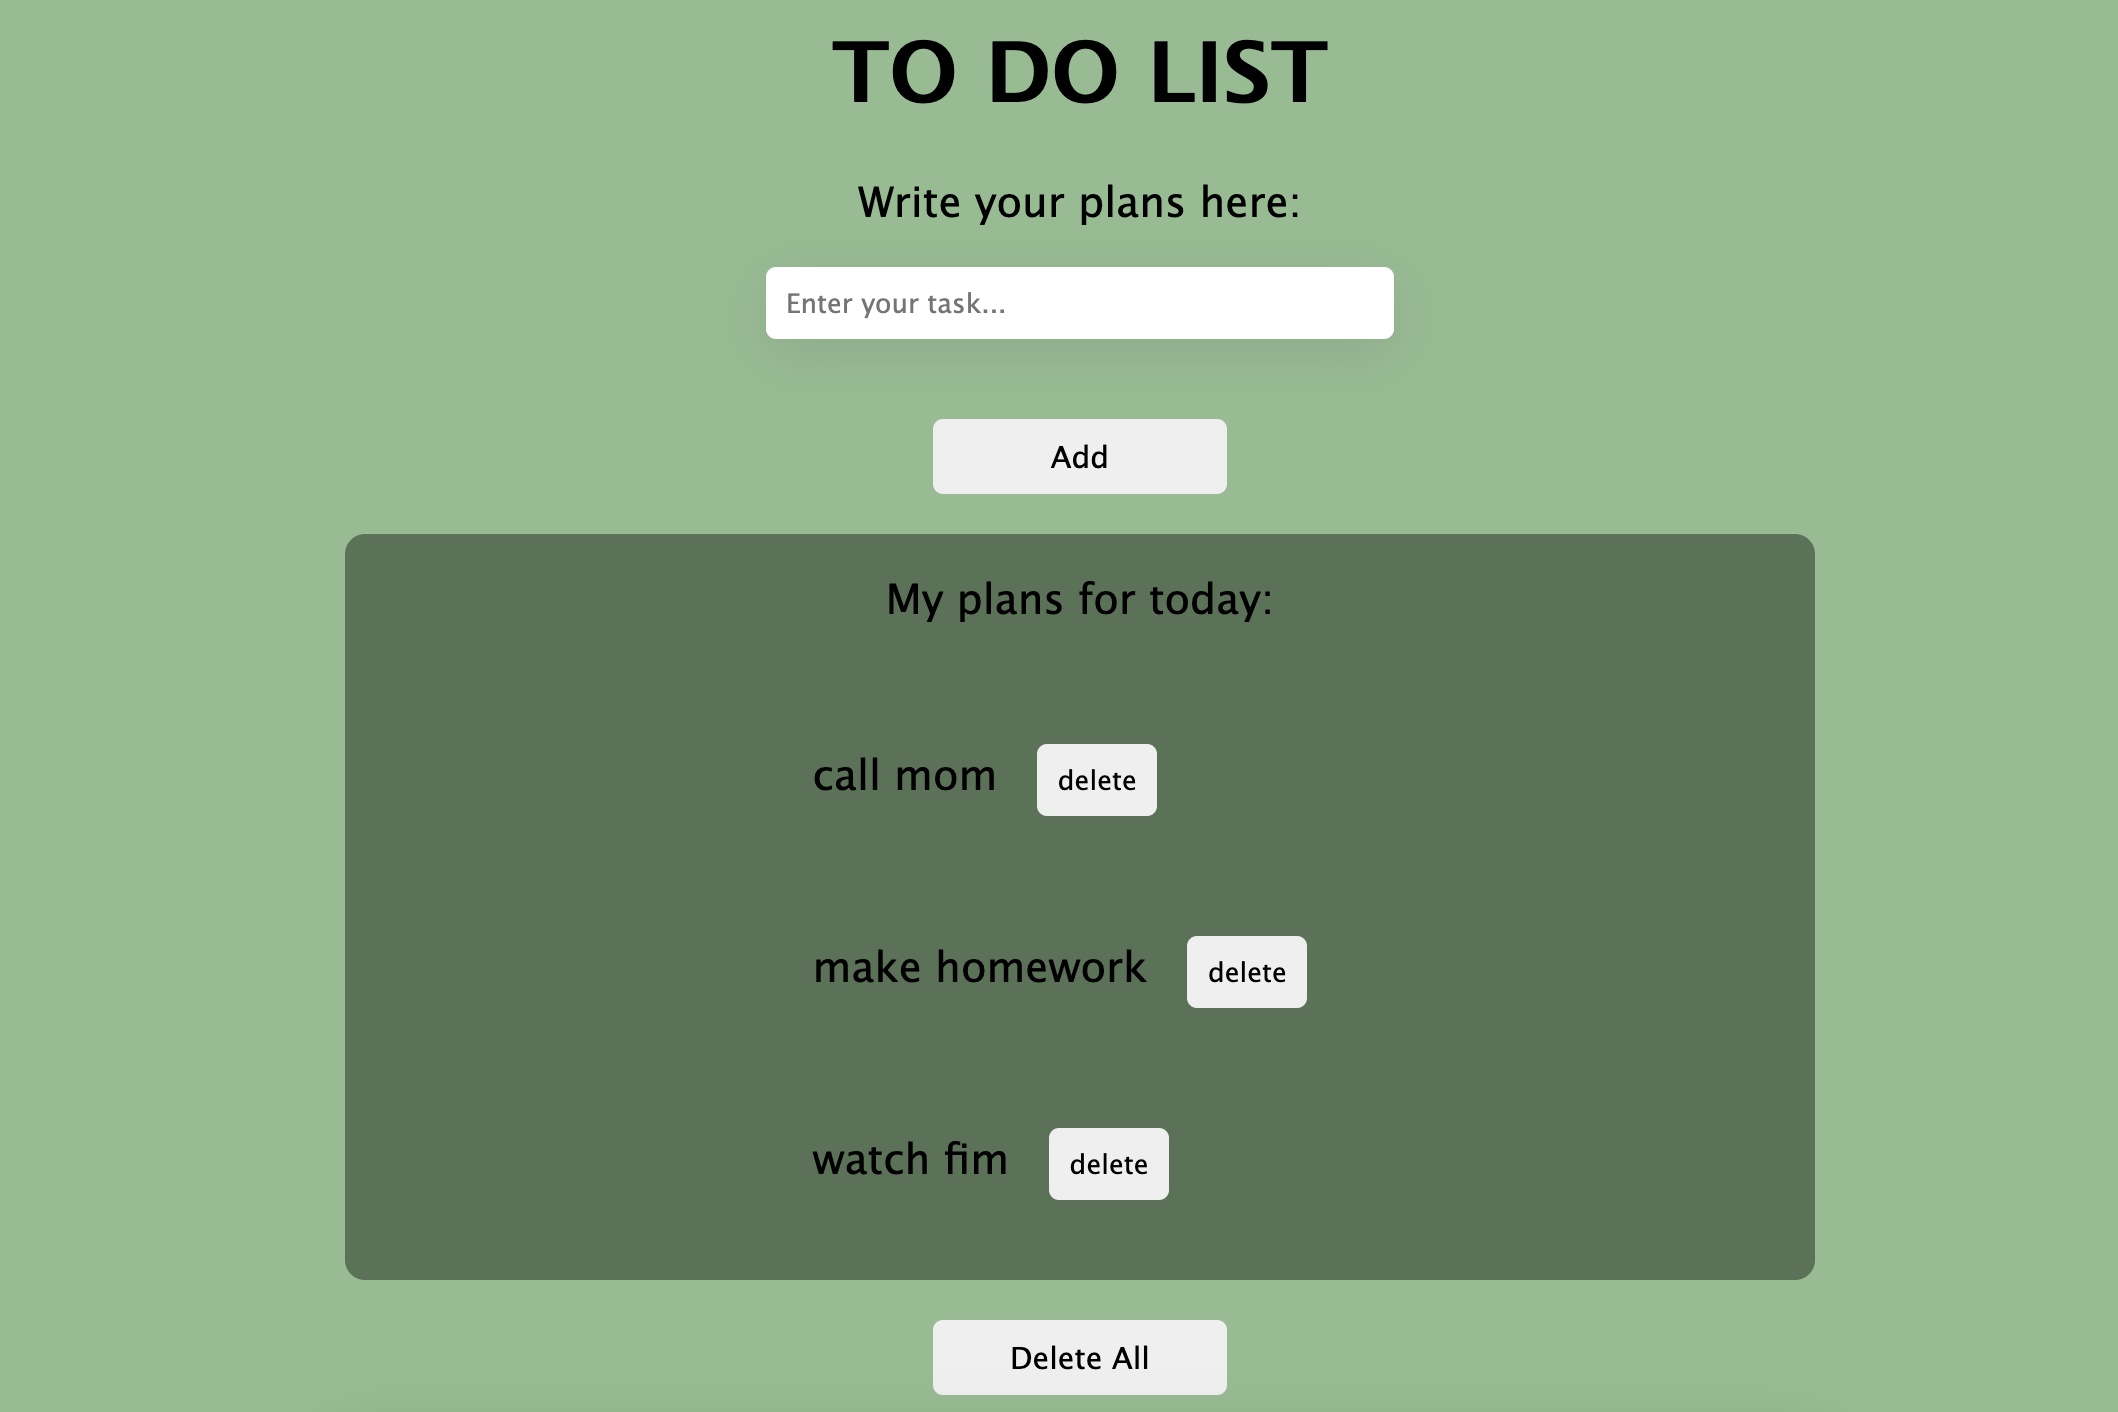
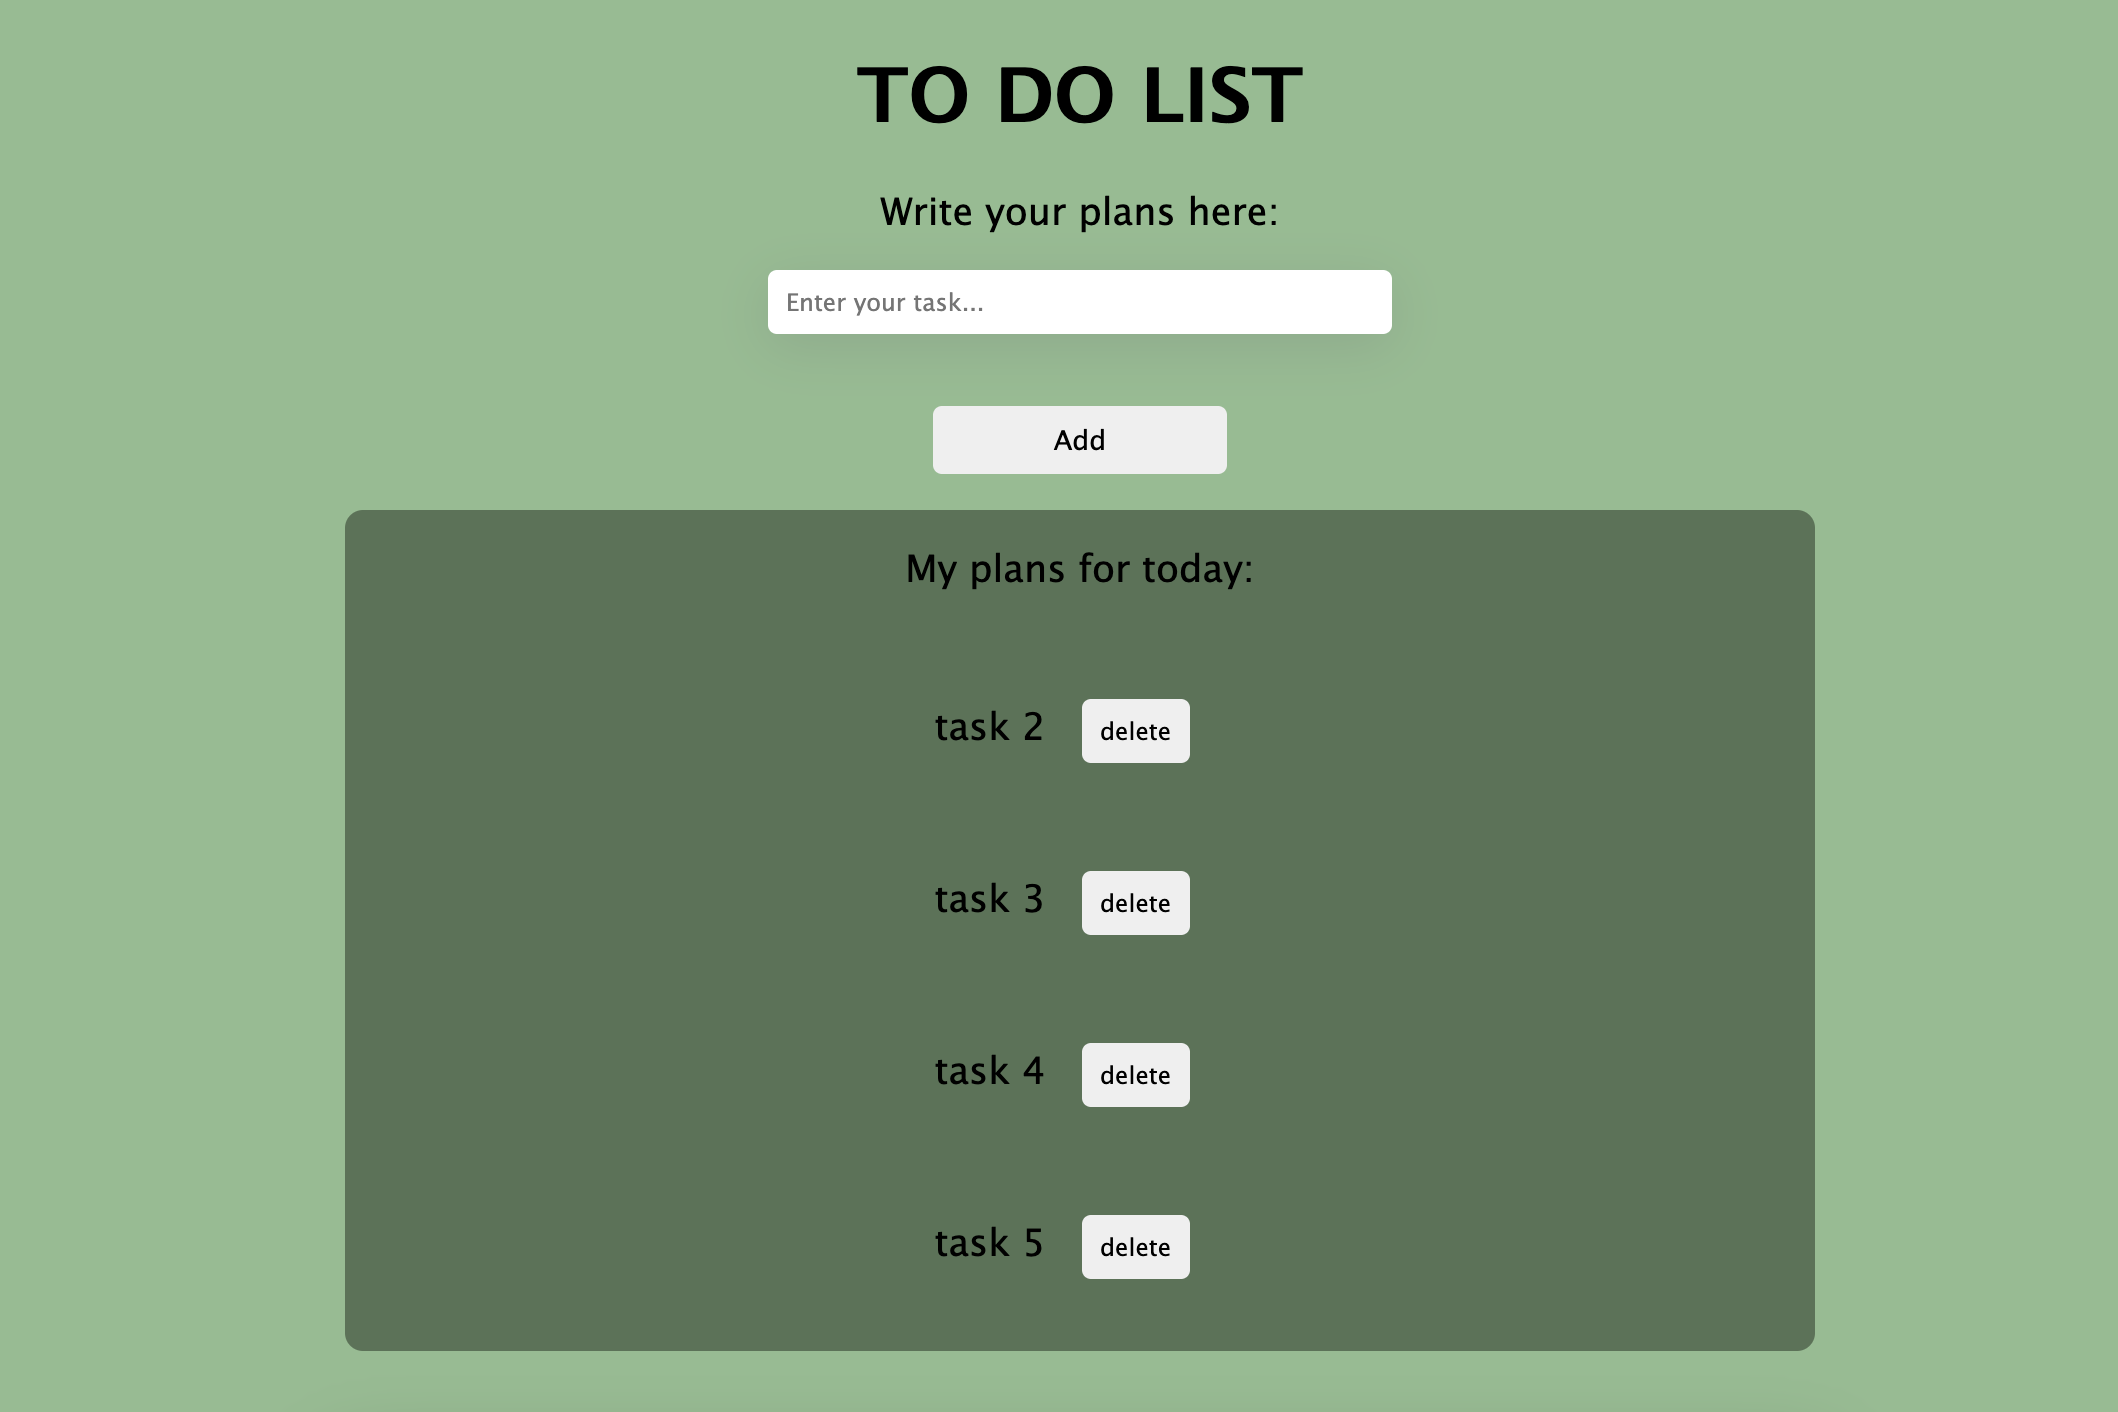
readme fixed

diff --git a/task3/task3.js b/task3/task3.js
@@ -24,13 +24,6 @@ function deleteItem() {
 }
 deleteItem();
 
-function hideAll() {
-    for (let i = 0; i < listItems.length; i++) {
-        listItems[i].style.display = 'none';
-    }
-}
-deleteBtn.addEventListener('click', hideAll);
-
 function addItem() {
     const newLi = document.createElement('li');
     newLi.innerText = addField.value;
@@ -49,7 +42,7 @@ function addItem() {
             elemet.style.display = "none";
         });
     }
-    hideAll();
 }
+
 addBtn.addEventListener('click', addItem);
 

diff --git a/task3/task3.html b/task3/task3.html
@@ -29,9 +29,6 @@
                 <li>task 5</li>
             </ul>
         </div>
-        <div class="btn-wrap">
-            <button class="all-delete-btn">Delete All</button>
-        </div>
     </div>
     <script src="task3.js"></script>
 </body>

diff --git a/task3/style3.css b/task3/style3.css
@@ -60,6 +60,7 @@ li {
     width: 50%;
     margin: auto;
     border-radius: 10px;
+    margin-bottom: 30px;
 }
 
 .delete-button {
